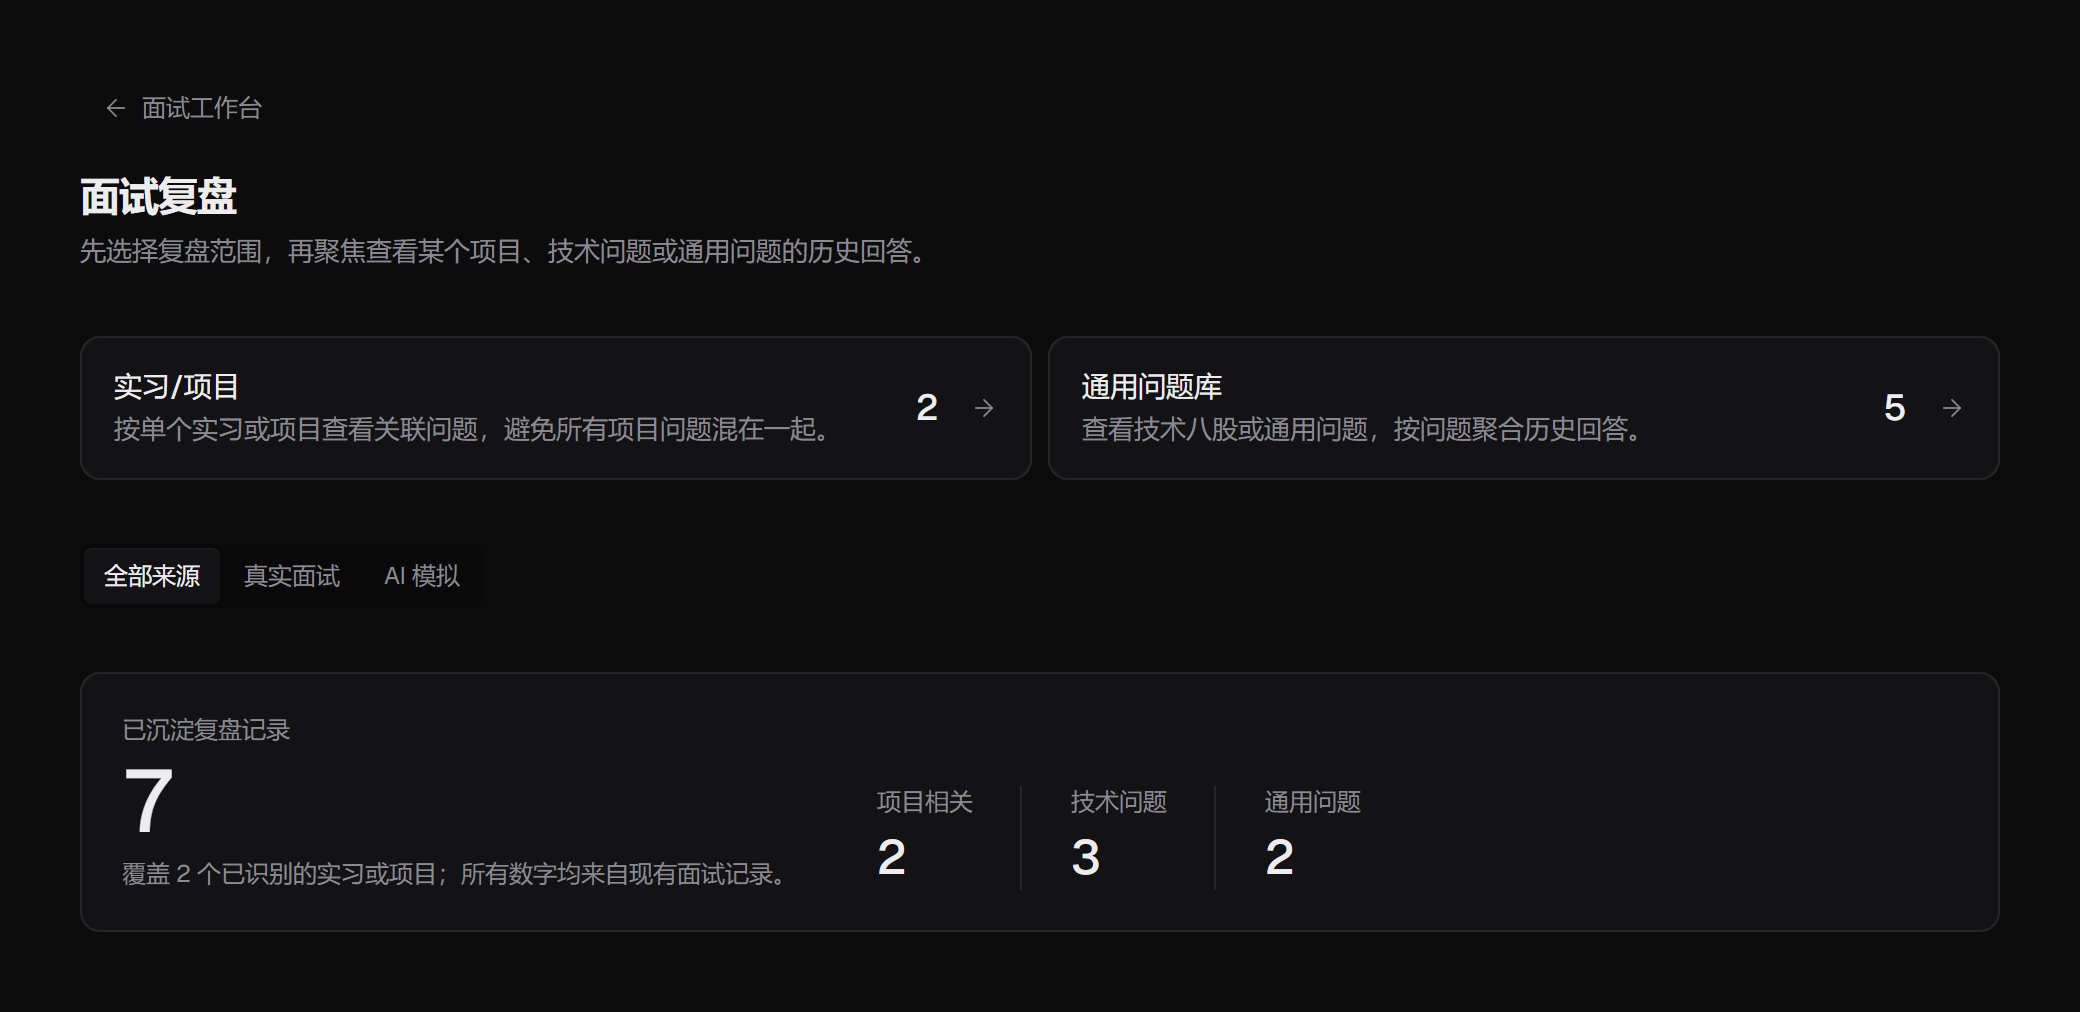
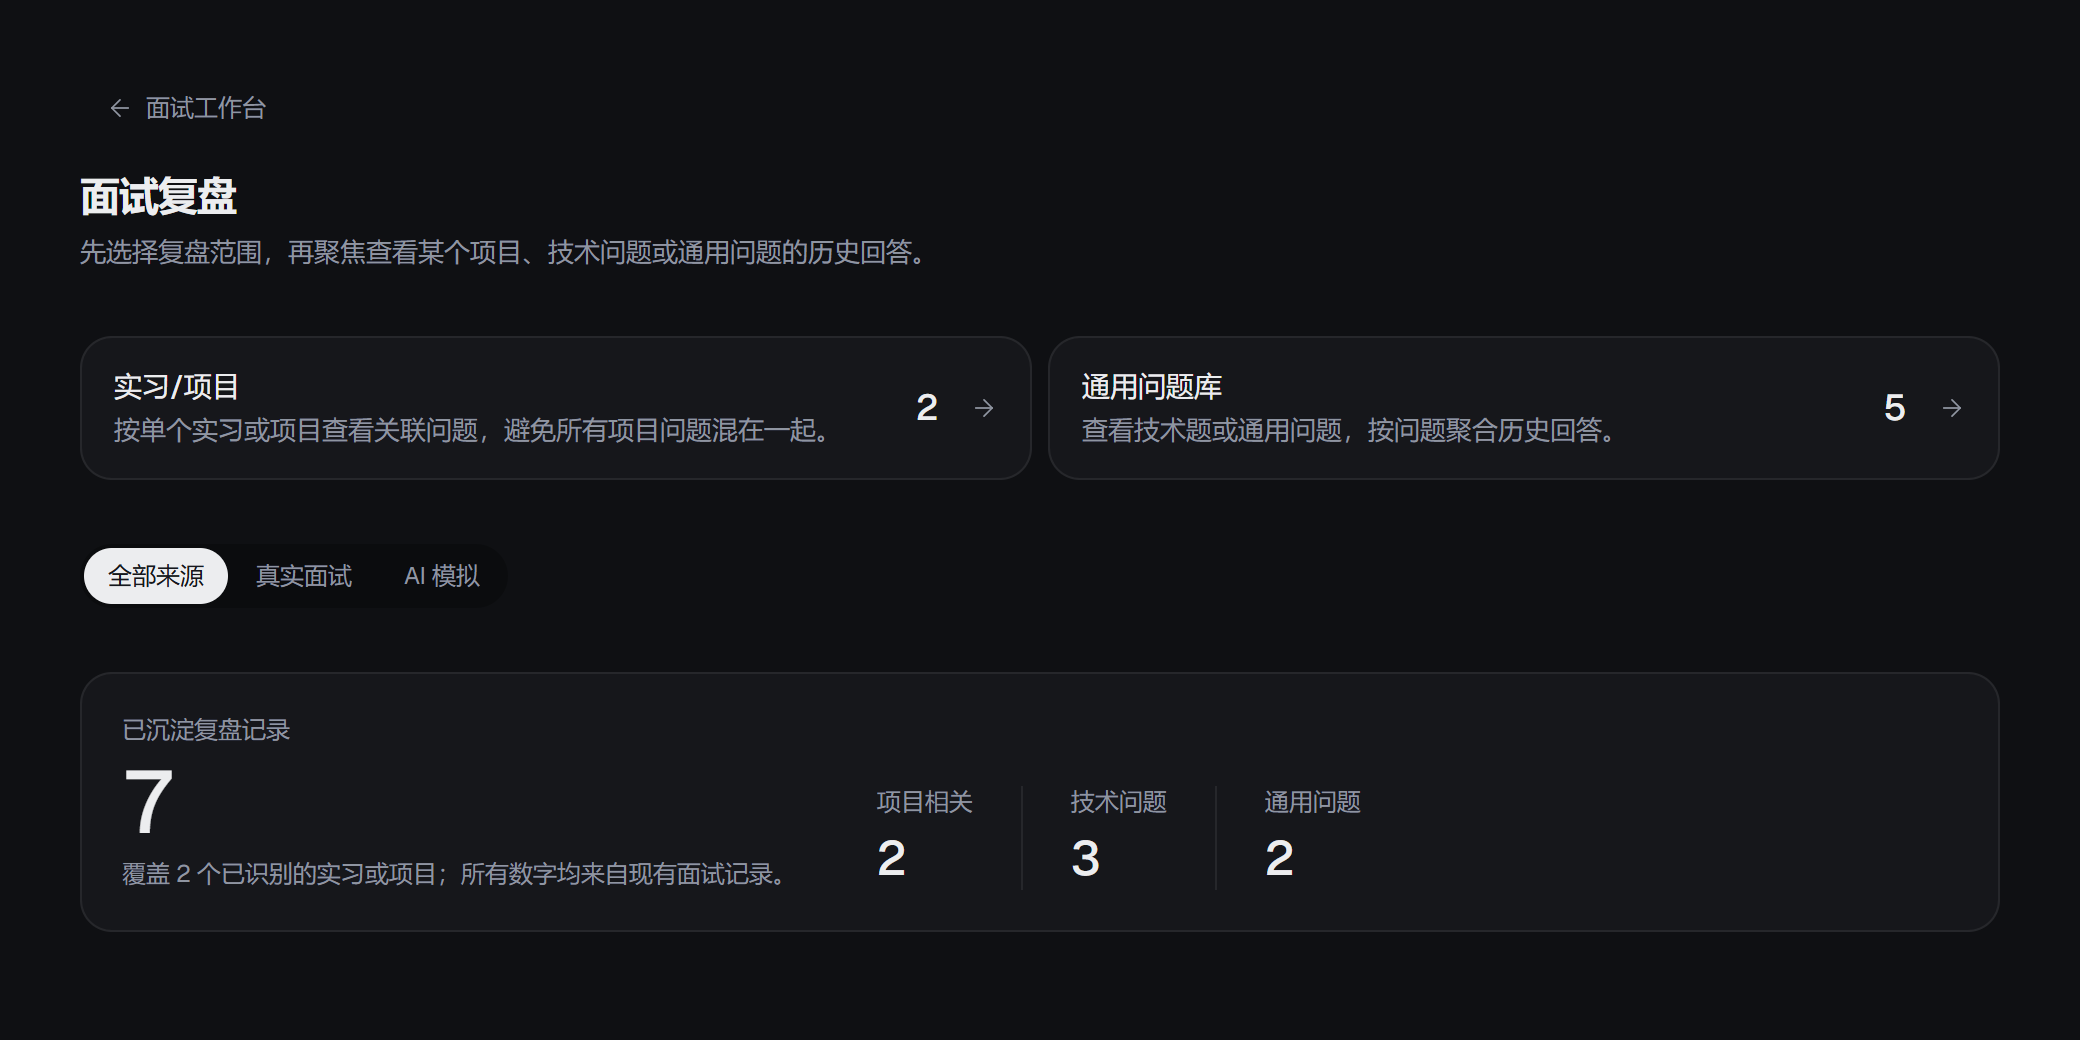
README screenshots regenerated; fix CountUp hydration under reduced motion
- docs/images: five pages recaptured on the new layouts with the fictional demo database, via a DevTools-protocol script (scripts/readme-shots.mjs) because Edge's --screenshot mode captures CountUp mid-animation and cannot render the G6 graph or Recharts containers.
- useReducedMotion now uses useSyncExternalStore with a false server snapshot, so a reduced-motion client hydrates the same "0" the server rendered before jumping to the value (was a hydration mismatch on every stat tile).
- AGENTS.md and docs/architecture.md: the screenshot recipe and the MSYS path-conversion pitfall.

Verified: tsc, eslint, images checked by eye.

diff --git a/src/lib/use-reduced-motion.ts b/src/lib/use-reduced-motion.ts
@@ -1,23 +1,19 @@
 "use client";
 
-import { useEffect, useState } from "react";
+import { useSyncExternalStore } from "react";
 
 const REDUCED_MOTION_QUERY = "(prefers-reduced-motion: reduce)";
 
+const subscribe = (onChange: () => void) => {
+  const media = window.matchMedia(REDUCED_MOTION_QUERY);
+  media.addEventListener("change", onChange);
+  return () => media.removeEventListener("change", onChange);
+};
+const getSnapshot = () => window.matchMedia(REDUCED_MOTION_QUERY).matches;
+// 服务端没有媒体查询，一律按"有动效"渲染；水合时客户端先用这个值对齐服务端 HTML，
+// 再切到真实偏好，不会出现服务端 0、客户端终值的文本不一致。
+const getServerSnapshot = () => false;
+
 export function useReducedMotion(): boolean {
-  const [reducedMotion, setReducedMotion] = useState(() =>
-    typeof window === "undefined"
-      ? false
-      : window.matchMedia(REDUCED_MOTION_QUERY).matches,
-  );
-
-  useEffect(() => {
-    const media = window.matchMedia(REDUCED_MOTION_QUERY);
-    const update = () => setReducedMotion(media.matches);
-    update();
-    media.addEventListener("change", update);
-    return () => media.removeEventListener("change", update);
-  }, []);
-
-  return reducedMotion;
+  return useSyncExternalStore(subscribe, getSnapshot, getServerSnapshot);
 }

diff --git a/AGENTS.md b/AGENTS.md
@@ -82,6 +82,7 @@
 
 - **Windows 11**，PowerShell 为主，Bash 工具也可用。`python` 跑含中文脚本要 `PYTHONUTF8=1`；Bash 里 100 行以上 heredoc 会失败，长脚本用 Write 写到 scratchpad 再执行；PowerShell `Select-Object -Last` 会缓冲到结束，看进度改 `*> 文件` 再 tail；`aux/con/nul/prn/com1` 等不能做文件名；**文件名里不能有冒号**（NTFS 把 `a:b.json` 当成 `a` 的备用数据流，目录里显示 0 字节文件，`fs.readFileSync('a:b.json')` 却能读到），模型名一类的字符串进文件名前先清洗。
 - **dev 预览只能用 `http://localhost:3000`**（127.0.0.1 不 hydrate）。用 `preview_start`，不用 Bash 起服务器。隐藏面板下页面停在骨架 / 多个 main 是查看环境假象，先截一张图再查。
+- **截图**：`msedge --headless --screenshot` 会在 CountUp 动画中途出图（数字偏小），且 G6 画布、Recharts 容器画不出来；要可靠的图走 DevTools 协议（`scripts/readme-shots.mjs`，README 用 `career-agent-demo` 配置起在 `prisma/demo.db` 上）。Git Bash 会把 `/interviews/...` 这类参数转成 Windows 路径，传 URL 路径给 node 时加 `MSYS_NO_PATHCONV=1`。
 - **`.next` 缓存损坏**：dev 运行中批量增删 / 改名文件后 API 返回 HTML 404。处置：`preview_stop` → `rm -rf .next` → `preview_start` → 探针 `curl -s -X POST -H "Content-Type: application/json" -d '{}' http://localhost:3000/api/trial/turn`（返回 JSON 即健康）。**付费跑批前必须先探针**；跑批哨兵见整档全挂立即停并 `rm -f eval/ablation.json`。
 - **改 Prisma schema 后**：`npx prisma db push` + `npx prisma generate`，再重启 dev（内存里的客户端还是旧的，每回合落库会失败）。
 - **长任务**（模拟 15 场约 40 分钟）不能放 Bash 后台（10 分钟超时），用 PowerShell `Start-Process` 脱离进程，日志放 scratchpad 用 Monitor 看；跑前确认 OpenAI 额度。

diff --git a/docs/architecture.md b/docs/architecture.md
@@ -126,6 +126,7 @@ docs/              文档（入口见 AGENTS.md）
 | `bench` | InterviewBench 子任务层：`--tasks s1,…,s6 --models main,openai:gpt-5.4-mini --label x`，数据在 `eval/bench/`，产物 `eval/bench/runs/` |
 | `compare-runs a.json A b.json B` | 两批 run 配对（只作发布门禁） |
 | `replay <sessionId>`、`resegment <id>`、`recall <resumeId>`、`postmortem <id>` | 事件重建、重切、看档案、单场复盘（均不调模型） |
+| `node scripts/readme-shots.mjs` | README 五张截图（对着 `prisma/demo.db` 虚构数据的 dev 服务器，DevTools 协议拍图、裁掉侧栏、2 倍），写 `docs/images/` |
 
 `eval/`：`jd/`（43 份 JD 含注入 edge 用例）、`resumes/`（5 份合成简历）、`personas/`、`scripts/`、`scorer/`、`judges/`（裁判校准集）、`coverage.json`、`mianjing/`（面经话题表）、`runs/`（产物，只保留 `baseline-* / base-* / fix-*`）。所有评测脚本走 `tsx --conditions=react-server`。
 
